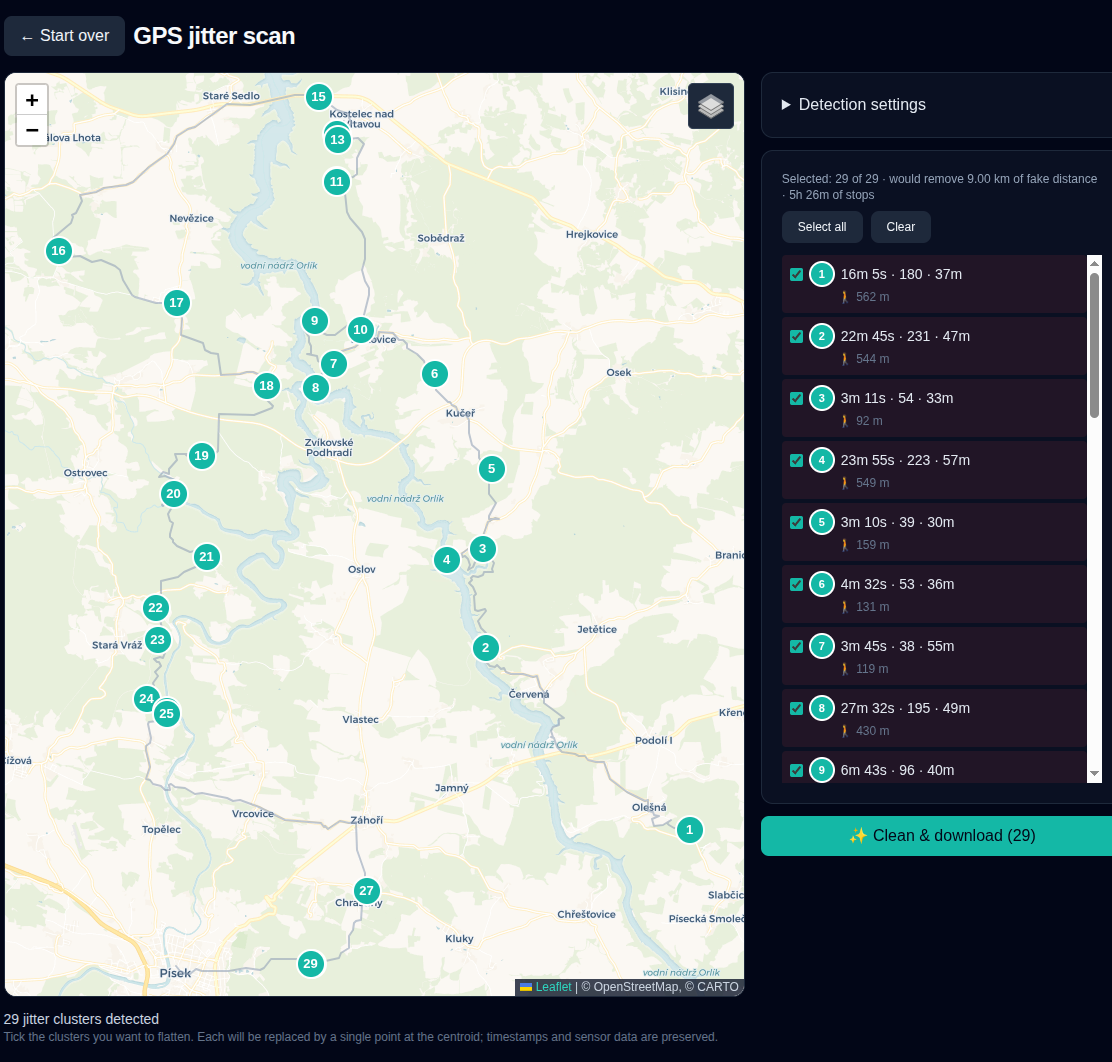
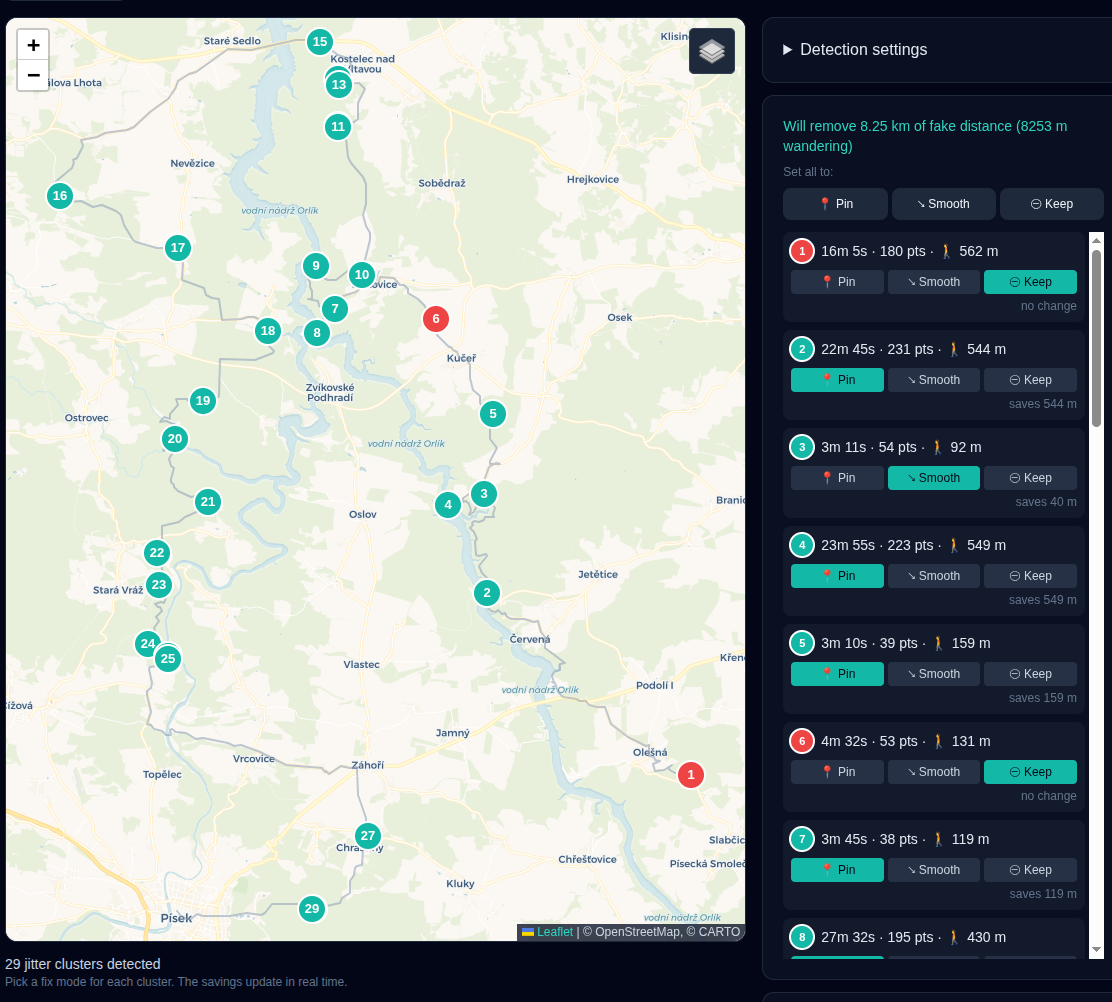
feat: cross-export to GPX from any flow + UI polish
Cross-export
- New src/lib/download.ts helper (downloadBlob).
- MergeView and CleanView now offer "Also as .gpx" buttons next to the
  primary download — one click yields both .fit and .gpx if you want them.
- GpxView remains the dedicated FIT→GPX flow; the new buttons just save
  a round-trip back to the home screen.

UI / colour balance
- Reserved bright brand-teal for the primary action buttons only
  (Download / Clean & download). Mode pills (Pin / Smooth / Keep) now use
  a dark slate background with a teal text + soft border when active, so
  the eye lands on the real CTA.
- "Will remove X km of fake distance" line switches to neutral slate-100
  font-semibold (was bright brand-400).
- HowItWorks step number badge desaturated; was the same teal as primary.

Trust bar
- New TrustBar component sits between Header and main: 100% local · Open
  source · No ads · Works offline. EN + CS keys.

How-it-works screenshot
- Replaces the inline-looking image with a framed mock browser window
  (traffic-light dots, "Preview · GPS jitter cleanup" label) inside a
  centred max-w-3xl figure. Image set to opacity-90 + pointer-events-none
  + select-none so it reads as illustration, not interactive UI.
- Updated screenshot file to the latest UI state.

diff --git a/src/components/CleanView.tsx b/src/components/CleanView.tsx
@@ -2,6 +2,8 @@ import { useEffect, useMemo, useState } from 'react'
 import { useTranslation } from 'react-i18next'
 import { scanFitForClusters, type JitterCluster, type RecordPoint } from '../lib/findClusters'
 import { cleanJitter, previewSavings, type Resolution } from '../lib/cleanJitter'
+import { fitToGpx } from '../lib/fitToGpx'
+import { downloadBlob } from '../lib/download'
 import JitterMap from './JitterMap'
 
 interface Props {
@@ -89,15 +91,24 @@ export default function CleanView({ file, onBack }: Props) {
     setMode(i, cur === 'keep' ? 'pin' : 'keep')
   }
 
-  const apply = () => {
-    if (!bytes) return
-    const result = cleanJitter(bytes, { ...settings, resolutions, freshenFileId: freshenId })
-    const blob = new Blob([result.output.buffer.slice(0) as ArrayBuffer], { type: 'application/octet-stream' })
-    const a = document.createElement('a')
-    a.href = URL.createObjectURL(blob)
-    const base = file.name.replace(/\.fit$/i, '')
-    a.download = `${base}_clean.fit`
-    a.click()
+  const cleanedBytes = (): Uint8Array | null => {
+    if (!bytes) return null
+    return cleanJitter(bytes, { ...settings, resolutions, freshenFileId: freshenId }).output
+  }
+
+  const base = file.name.replace(/\.fit$/i, '')
+
+  const downloadFit = () => {
+    const out = cleanedBytes()
+    if (!out) return
+    downloadBlob(out, `${base}_clean.fit`, 'application/octet-stream')
+  }
+
+  const downloadGpx = () => {
+    const out = cleanedBytes()
+    if (!out) return
+    const gpx = fitToGpx(out)
+    downloadBlob(gpx.gpx, `${base}_clean.gpx`, 'application/gpx+xml')
   }
 
   return (
@@ -152,7 +163,7 @@ export default function CleanView({ file, onBack }: Props) {
             </details>
 
             <div className="card">
-              <p className="text-sm text-brand-400 font-medium mb-2">
+              <p className="text-sm text-slate-100 font-semibold mb-2">
                 {t('clean.selected_summary', {
                   km: (preview.totalSavedM / 1000).toFixed(2),
                   m: Math.round(preview.totalSavedM),
@@ -162,7 +173,11 @@ export default function CleanView({ file, onBack }: Props) {
               <div className="text-xs text-slate-500 mb-2">{t('clean.set_all')}</div>
               <div className="grid grid-cols-3 gap-1 mb-3">
                 {MODES.map(m => (
-                  <button key={m} className="btn-ghost text-xs" onClick={() => setAllModes(m)}>
+                  <button
+                    key={m}
+                    className="text-xs px-2 py-1.5 rounded bg-slate-800 hover:bg-slate-700 text-slate-300 border border-slate-700"
+                    onClick={() => setAllModes(m)}
+                  >
                     {modeLabel(m, t)}
                   </button>
                 ))}
@@ -192,10 +207,10 @@ export default function CleanView({ file, onBack }: Props) {
                             key={m}
                             onClick={() => setMode(i, m)}
                             title={t(`clean.modes.${m}_help`) ?? ''}
-                            className={`text-xs px-2 py-1 rounded transition-colors ${
+                            className={`text-xs px-2 py-1 rounded transition-colors border ${
                               cur === m
-                                ? 'bg-brand-500 text-slate-950 font-medium'
-                                : 'bg-slate-700/60 text-slate-300 hover:bg-slate-700'
+                                ? 'bg-slate-900 text-brand-300 border-brand-500/50 font-medium'
+                                : 'bg-slate-800 text-slate-400 border-slate-700 hover:text-slate-200 hover:border-slate-600'
                             }`}
                           >{modeLabel(m, t)}</button>
                         ))}
@@ -224,9 +239,17 @@ export default function CleanView({ file, onBack }: Props) {
               </div>
             </label>
 
-            <button className="btn-primary w-full" onClick={apply}>
-              ✨ {t('clean.apply')}
-            </button>
+            <div className="space-y-2">
+              <button className="btn-primary w-full" onClick={downloadFit}>
+                ✨ {t('clean.apply')}
+              </button>
+              <button
+                className="w-full text-sm py-2 rounded border border-slate-700 bg-slate-800 hover:bg-slate-700 text-slate-200"
+                onClick={downloadGpx}
+              >
+                📍 {t('clean.also_gpx')}
+              </button>
+            </div>
           </aside>
         </div>
       )}

diff --git a/src/components/HowItWorks.tsx b/src/components/HowItWorks.tsx
@@ -9,7 +9,7 @@ export default function HowItWorks() {
         {[1, 2, 3].map(n => (
           <div key={n} className="card text-left">
             <div className="flex items-center gap-3 mb-2">
-              <span className="w-8 h-8 rounded-full bg-brand-500 text-slate-950 font-bold flex items-center justify-center">{n}</span>
+              <span className="w-8 h-8 rounded-full bg-slate-800 text-slate-200 font-bold flex items-center justify-center border border-slate-700">{n}</span>
               <h3 className="text-slate-50">{t(`how.step${n}.title`)}</h3>
             </div>
             <p className="text-sm text-slate-400">{t(`how.step${n}.body`)}</p>
@@ -17,17 +17,29 @@ export default function HowItWorks() {
         ))}
       </div>
 
-      <div className="mt-6 rounded-xl overflow-hidden border border-slate-800 bg-slate-900">
-        <img
-          src="/screenshot-clean.png"
-          alt={t('how.screenshot_alt')}
-          className="w-full"
-          loading="lazy"
-        />
-        <div className="px-4 py-2 text-xs text-slate-500 border-t border-slate-800">
-          {t('how.screenshot_caption')}
+      {/* Screenshot mockup — framed like a separate browser window so it
+          doesn't read as live UI. Sits in a centered, max-width container. */}
+      <figure className="mt-8 max-w-3xl mx-auto">
+        <div className="rounded-xl overflow-hidden border border-slate-700 shadow-2xl shadow-slate-950/50 bg-slate-900">
+          <div className="flex items-center gap-1.5 px-3 py-2 bg-slate-800/80 border-b border-slate-700">
+            <span className="w-2.5 h-2.5 rounded-full bg-red-500/70"></span>
+            <span className="w-2.5 h-2.5 rounded-full bg-yellow-500/70"></span>
+            <span className="w-2.5 h-2.5 rounded-full bg-green-500/70"></span>
+            <span className="ml-3 text-[10px] uppercase tracking-wider text-slate-500 font-mono">
+              {t('how.screenshot_label')}
+            </span>
+          </div>
+          <img
+            src="/screenshot-clean.png"
+            alt={t('how.screenshot_alt')}
+            className="w-full block opacity-90 pointer-events-none select-none"
+            loading="lazy"
+          />
         </div>
-      </div>
+        <figcaption className="text-center text-xs text-slate-500 mt-3 italic">
+          {t('how.screenshot_caption')}
+        </figcaption>
+      </figure>
     </section>
   )
 }

diff --git a/src/components/MergeView.tsx b/src/components/MergeView.tsx
@@ -1,6 +1,8 @@
 import { useEffect, useMemo, useState } from 'react'
 import { useTranslation } from 'react-i18next'
 import { mergeFitMany, sortByStartTime, type MergeResult } from '../lib/merge'
+import { fitToGpx } from '../lib/fitToGpx'
+import { downloadBlob } from '../lib/download'
 
 interface Props {
   files: File[]
@@ -66,11 +68,13 @@ export default function MergeView({ files, onBack }: Props) {
 
   const download = () => {
     if (!result) return
-    const blob = new Blob([result.output.buffer.slice(0) as ArrayBuffer], { type: 'application/octet-stream' })
-    const a = document.createElement('a')
-    a.href = URL.createObjectURL(blob)
-    a.download = 'merged.fit'
-    a.click()
+    downloadBlob(result.output, 'merged.fit', 'application/octet-stream')
+  }
+
+  const downloadGpx = () => {
+    if (!result) return
+    const gpx = fitToGpx(result.output)
+    downloadBlob(gpx.gpx, 'merged.gpx', 'application/gpx+xml')
   }
 
   const move = (from: number, to: number) => {
@@ -179,7 +183,15 @@ export default function MergeView({ files, onBack }: Props) {
             </div>
           </label>
 
-          <button className="btn-primary" onClick={download}>📥 {t('merge.download')}</button>
+          <div className="flex flex-wrap gap-2">
+            <button className="btn-primary" onClick={download}>📥 {t('merge.download')}</button>
+            <button
+              className="text-sm px-4 py-2 rounded border border-slate-700 bg-slate-800 hover:bg-slate-700 text-slate-200"
+              onClick={downloadGpx}
+            >
+              📍 {t('merge.also_gpx')}
+            </button>
+          </div>
         </div>
       )}
     </section>

diff --git a/src/components/TrustBar.tsx b/src/components/TrustBar.tsx
@@ -1,0 +1,30 @@
+import { useTranslation } from 'react-i18next'
+
+export default function TrustBar() {
+  const { t } = useTranslation()
+  return (
+    <div className="border-b border-slate-800 bg-slate-900/60">
+      <div className="max-w-6xl mx-auto px-4 py-1.5 flex items-center justify-center gap-x-5 gap-y-1 flex-wrap text-[11px] sm:text-xs text-slate-400">
+        <span className="inline-flex items-center gap-1">
+          <span aria-hidden>🔒</span> {t('trust.local')}
+        </span>
+        <span className="text-slate-700" aria-hidden>·</span>
+        <a
+          href="https://github.com/otaprochazka/fitfix"
+          target="_blank" rel="noreferrer"
+          className="inline-flex items-center gap-1 text-slate-400 hover:text-brand-300"
+        >
+          <span aria-hidden>🔓</span> {t('trust.open')}
+        </a>
+        <span className="text-slate-700" aria-hidden>·</span>
+        <span className="inline-flex items-center gap-1">
+          <span aria-hidden>🚫</span> {t('trust.no_ads')}
+        </span>
+        <span className="text-slate-700 hidden sm:inline" aria-hidden>·</span>
+        <span className="inline-flex items-center gap-1 hidden sm:inline-flex">
+          <span aria-hidden>✈</span> {t('trust.offline')}
+        </span>
+      </div>
+    </div>
+  )
+}

diff --git a/src/App.tsx b/src/App.tsx
@@ -1,5 +1,6 @@
 import { useState } from 'react'
 import Header from './components/Header'
+import TrustBar from './components/TrustBar'
 import Footer from './components/Footer'
 import HomeView from './components/HomeView'
 import MergeView from './components/MergeView'
@@ -18,6 +19,7 @@ export default function App() {
   return (
     <div className="min-h-screen flex flex-col">
       <Header />
+      <TrustBar />
       <main className="flex-1 max-w-6xl mx-auto w-full px-4 py-6">
         {view.kind === 'home' && <HomeView onSelect={setView} />}
         {view.kind === 'merge' && (

diff --git a/src/lib/download.ts b/src/lib/download.ts
@@ -1,0 +1,12 @@
+/** Trigger a file download from a Uint8Array or string in the browser. */
+export function downloadBlob(content: Uint8Array | string, filename: string, mime: string) {
+  const part: BlobPart = typeof content === 'string'
+    ? content
+    : (content.buffer.slice(0) as ArrayBuffer)
+  const blob = new Blob([part], { type: mime })
+  const a = document.createElement('a')
+  a.href = URL.createObjectURL(blob)
+  a.download = filename
+  a.click()
+  setTimeout(() => URL.revokeObjectURL(a.href), 1000)
+}
